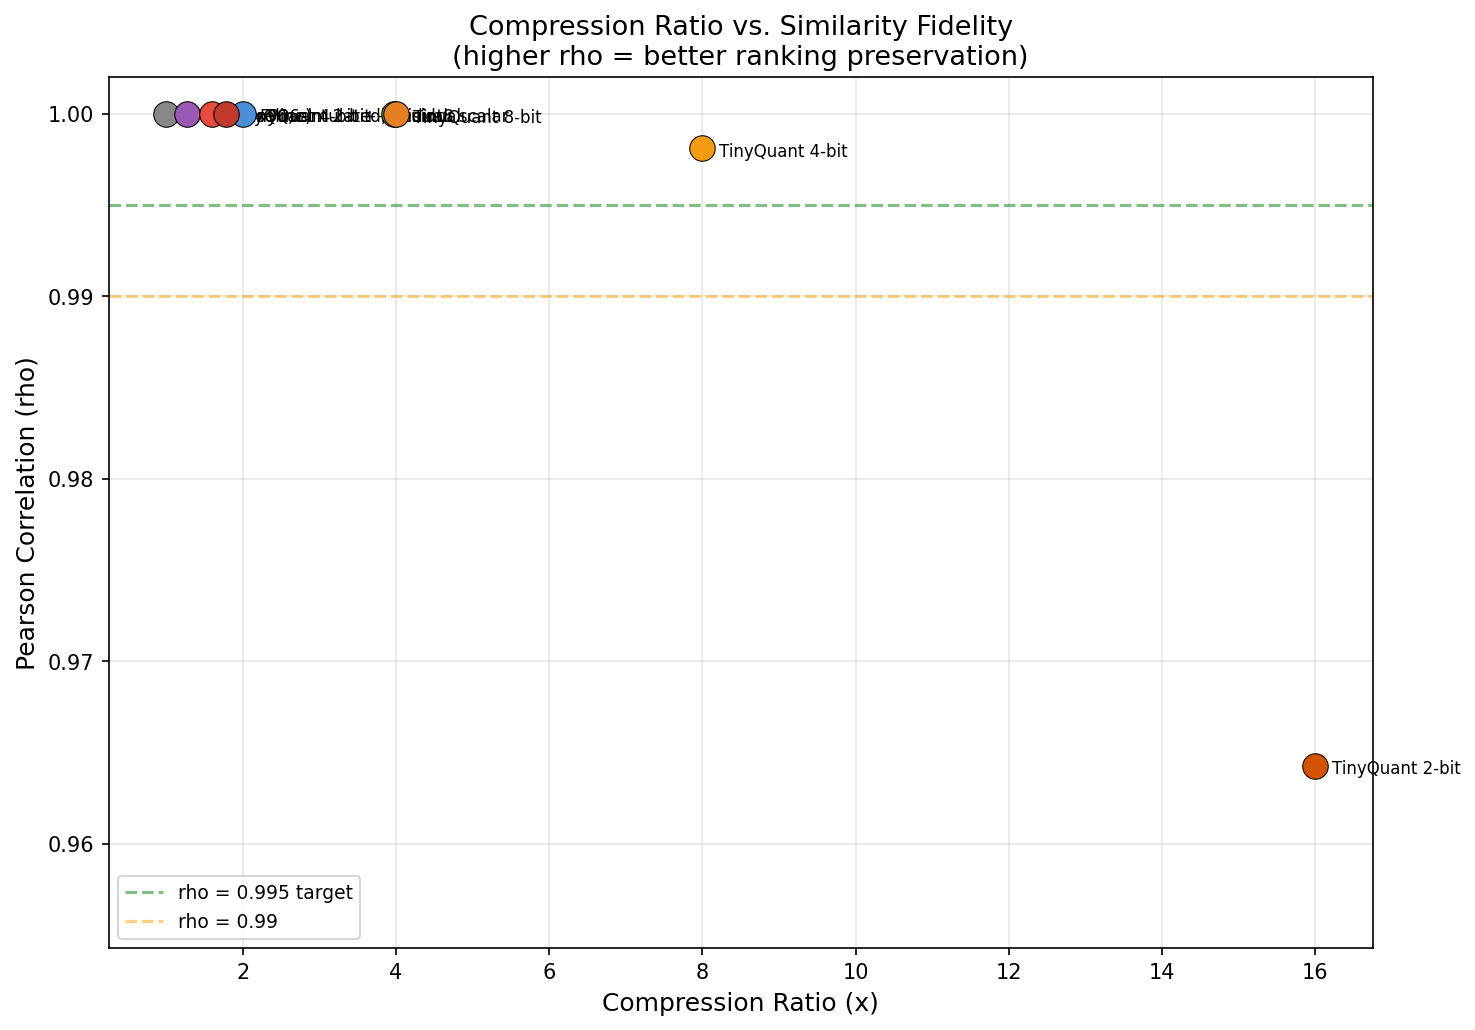
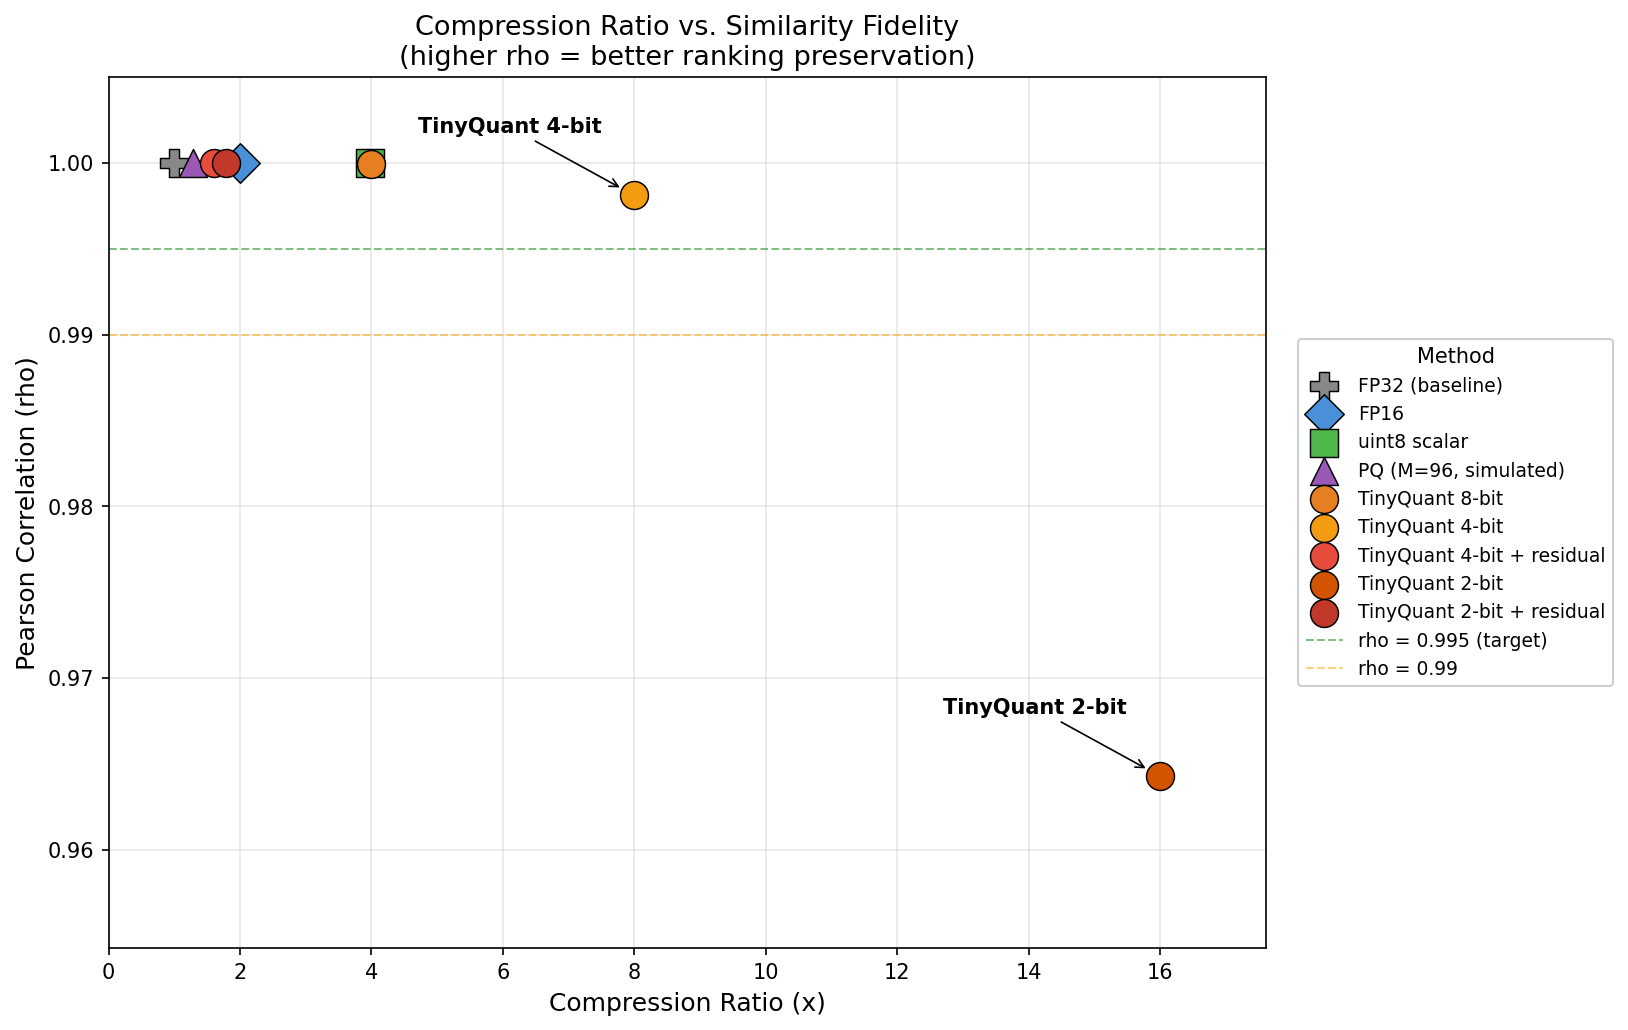
fix(plots): resolve overlapping labels in compression_vs_fidelity plot
The 7 methods clustered near (ratio < 5, rho ≈ 1.0) had labels
stacking on top of each other. Replace inline labels with:

- Distinct marker shapes per method category (circle/square/diamond/
  triangle/plus) for visual differentiation
- Legend on the right side outside the plot area listing all methods
- Inline annotations with leader arrows only for the well-separated
  outliers (TinyQuant 4-bit and 2-bit)

diff --git a/experiments/quantization-benchmark/generate_plots.py b/experiments/quantization-benchmark/generate_plots.py
@@ -66,43 +66,90 @@ def get_colors(results: list[dict]) -> list[str]:
     return colors
 
 
-def plot_compression_vs_fidelity(results: list[dict], colors: list[str]) -> None:
-    """Scatter plot: compression ratio vs Pearson rho."""
-    fig, ax = plt.subplots(figsize=(10, 7))
+def _marker_for(name: str) -> str:
+    """Choose a marker shape per method category."""
+    if "TinyQuant" in name:
+        return "o"  # circle
+    if "PQ" in name:
+        return "^"  # triangle
+    if "uint8" in name:
+        return "s"  # square
+    if "FP16" in name:
+        return "D"  # diamond
+    return "P"  # plus (FP32 baseline)
 
+
+def plot_compression_vs_fidelity(results: list[dict], colors: list[str]) -> None:
+    """Scatter plot: compression ratio vs Pearson rho.
+
+    The cluster of methods near (ratio < 5, rho ≈ 1.0) is identified
+    via a legend rather than overlapping inline labels. Well-separated
+    outliers (TinyQuant 4-bit and 2-bit) are annotated directly.
+    """
+    fig, ax = plt.subplots(figsize=(11, 7))
+
+    # Plot each method as its own series so it appears in the legend.
     for i, r in enumerate(results):
         ax.scatter(
             r["compression_ratio"],
             r["pearson_rho"],
-            s=150,
+            s=180,
             c=colors[i],
             edgecolors="black",
-            linewidths=0.5,
+            linewidths=0.7,
+            marker=_marker_for(r["name"]),
+            label=r["name"],
             zorder=5,
         )
-        # Label offset to avoid overlaps
-        offset_x = 0.15
-        offset_y = -0.003
-        if "2-bit + residual" in r["name"]:
-            offset_y = 0.004
-        elif "PQ" in r["name"]:
-            offset_x = -0.3
+
+    # Annotate only the well-separated outliers with leader lines.
+    annotate_names = {"TinyQuant 4-bit", "TinyQuant 2-bit"}
+    for r in results:
+        if r["name"] not in annotate_names:
+            continue
         ax.annotate(
             r["name"],
-            (r["compression_ratio"], r["pearson_rho"]),
+            xy=(r["compression_ratio"], r["pearson_rho"]),
+            xytext=(-60, 30),
             textcoords="offset points",
-            xytext=(8, -4),
-            fontsize=8,
-            ha="left",
+            fontsize=10,
+            fontweight="bold",
+            ha="center",
+            arrowprops={
+                "arrowstyle": "->",
+                "color": "black",
+                "lw": 0.8,
+                "shrinkA": 0,
+                "shrinkB": 8,
+            },
         )
+
+    # Threshold reference lines
+    ax.axhline(y=0.995, color="green", linestyle="--", alpha=0.5, linewidth=1.0,
+               label="rho = 0.995 (target)")
+    ax.axhline(y=0.99, color="orange", linestyle="--", alpha=0.5, linewidth=1.0,
+               label="rho = 0.99")
 
     ax.set_xlabel("Compression Ratio (x)")
     ax.set_ylabel("Pearson Correlation (rho)")
-    ax.set_title("Compression Ratio vs. Similarity Fidelity\n(higher rho = better ranking preservation)")
-    ax.axhline(y=0.995, color="green", linestyle="--", alpha=0.5, label="rho = 0.995 target")
-    ax.axhline(y=0.99, color="orange", linestyle="--", alpha=0.5, label="rho = 0.99")
-    ax.legend(loc="lower left")
-    ax.set_ylim(bottom=min(r["pearson_rho"] for r in results) - 0.01, top=1.002)
+    ax.set_title(
+        "Compression Ratio vs. Similarity Fidelity\n"
+        "(higher rho = better ranking preservation)"
+    )
+
+    rho_min = min(r["pearson_rho"] for r in results)
+    ax.set_ylim(bottom=rho_min - 0.01, top=1.005)
+    ax.set_xlim(left=0, right=max(r["compression_ratio"] for r in results) * 1.1)
+
+    # Legend outside the plot area on the right to avoid covering data points.
+    ax.legend(
+        loc="center left",
+        bbox_to_anchor=(1.02, 0.5),
+        fontsize=9,
+        framealpha=0.95,
+        title="Method",
+        title_fontsize=10,
+    )
 
     fig.tight_layout()
     fig.savefig(PLOTS_DIR / "compression_vs_fidelity.png", bbox_inches="tight")
